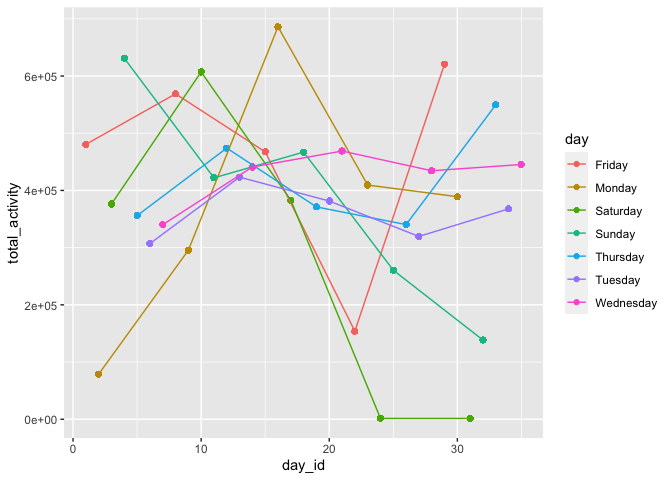
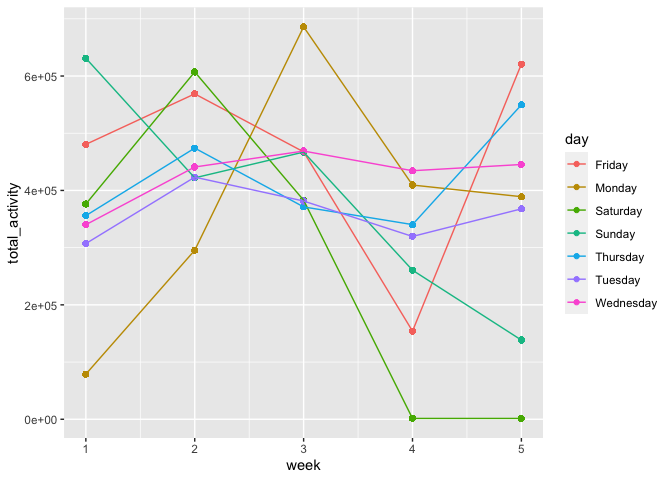
last plot for problem 3 seems more clear with x = week instead of day_id as day_id and day of week seem jumbled

diff --git a/p8105_hw3_lzs2109.md b/p8105_hw3_lzs2109.md
@@ -344,9 +344,9 @@ between Friday-Monday, with the exception of week 4.
 
 ``` r
 accel_df %>% 
-  ggplot(aes(x = day_id, y = total_activity, color = day)) +
+  ggplot(aes(x = week, y = total_activity, color = day)) +
   geom_point() +
-  geom_line()
+  geom_path()
 ```
 
 ![](p8105_hw3_lzs2109_files/figure-gfm/unnamed-chunk-14-1.png)<!-- -->
